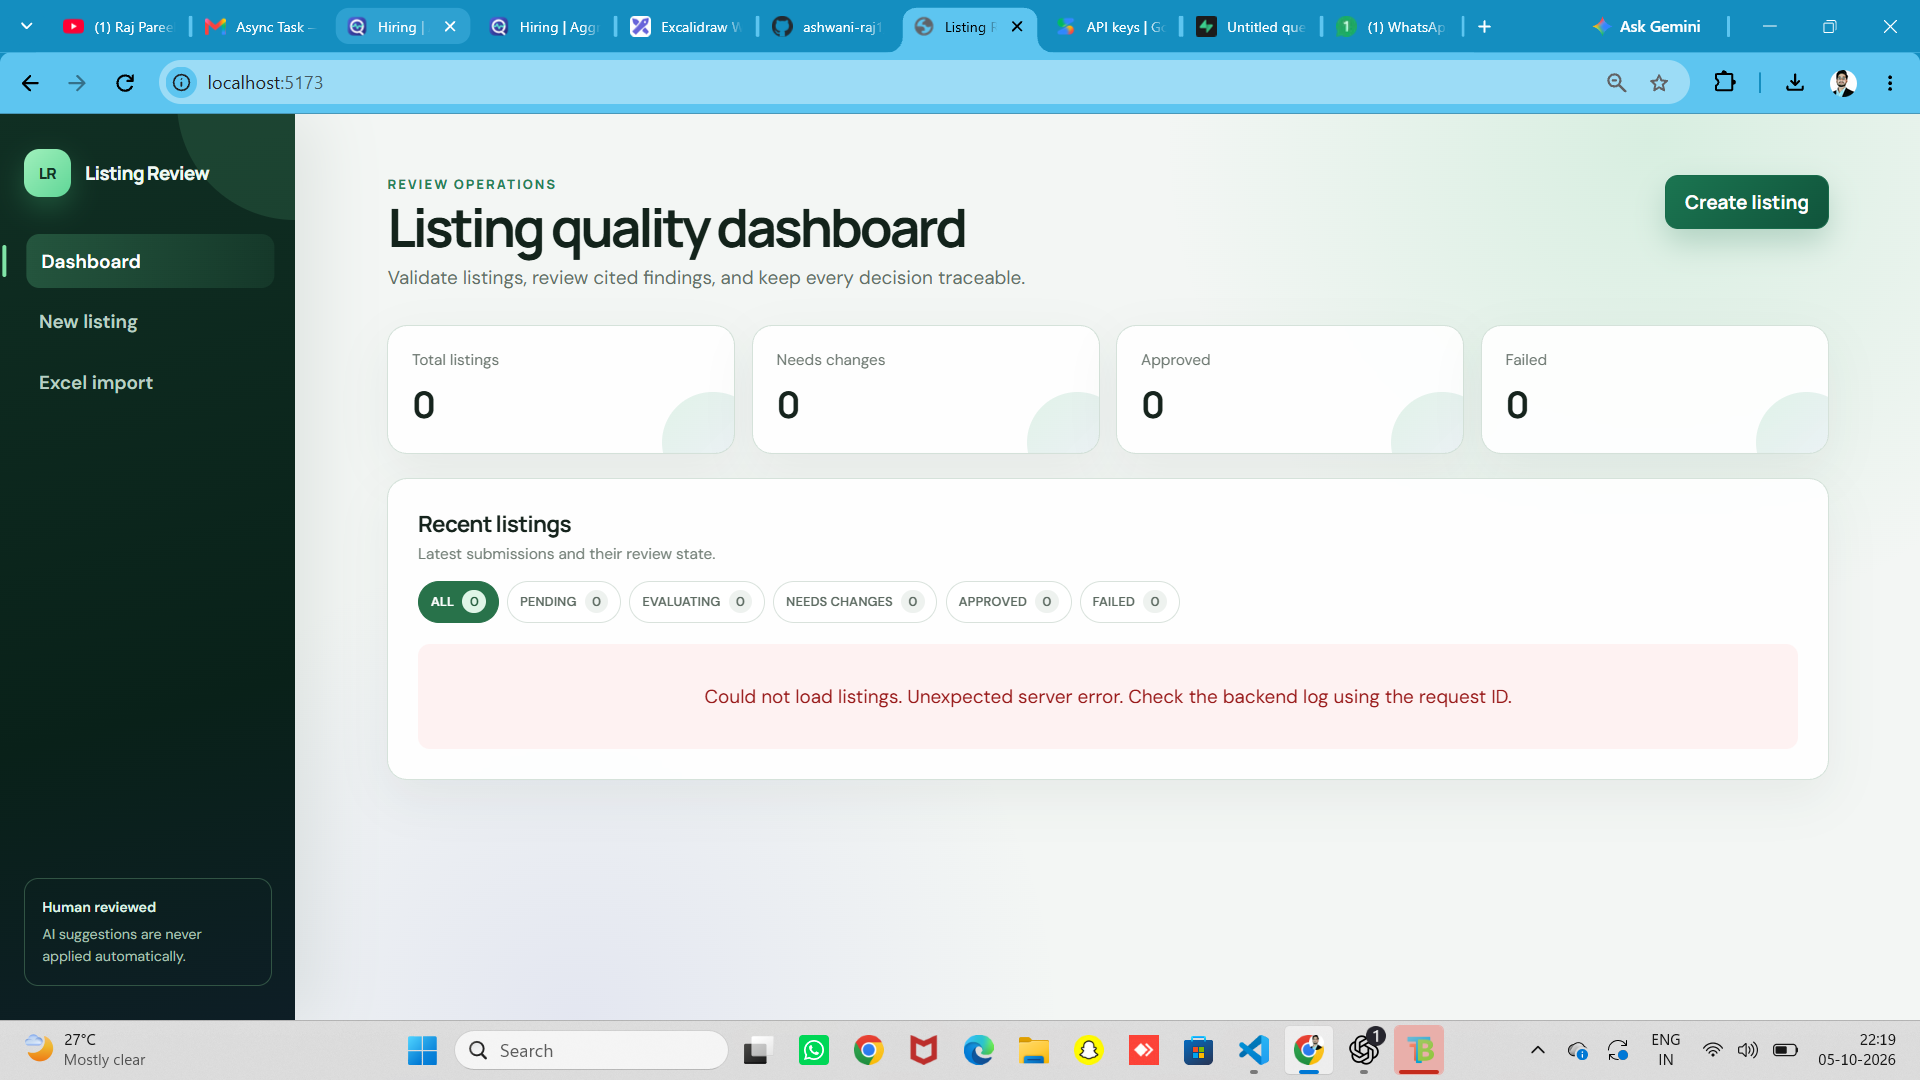
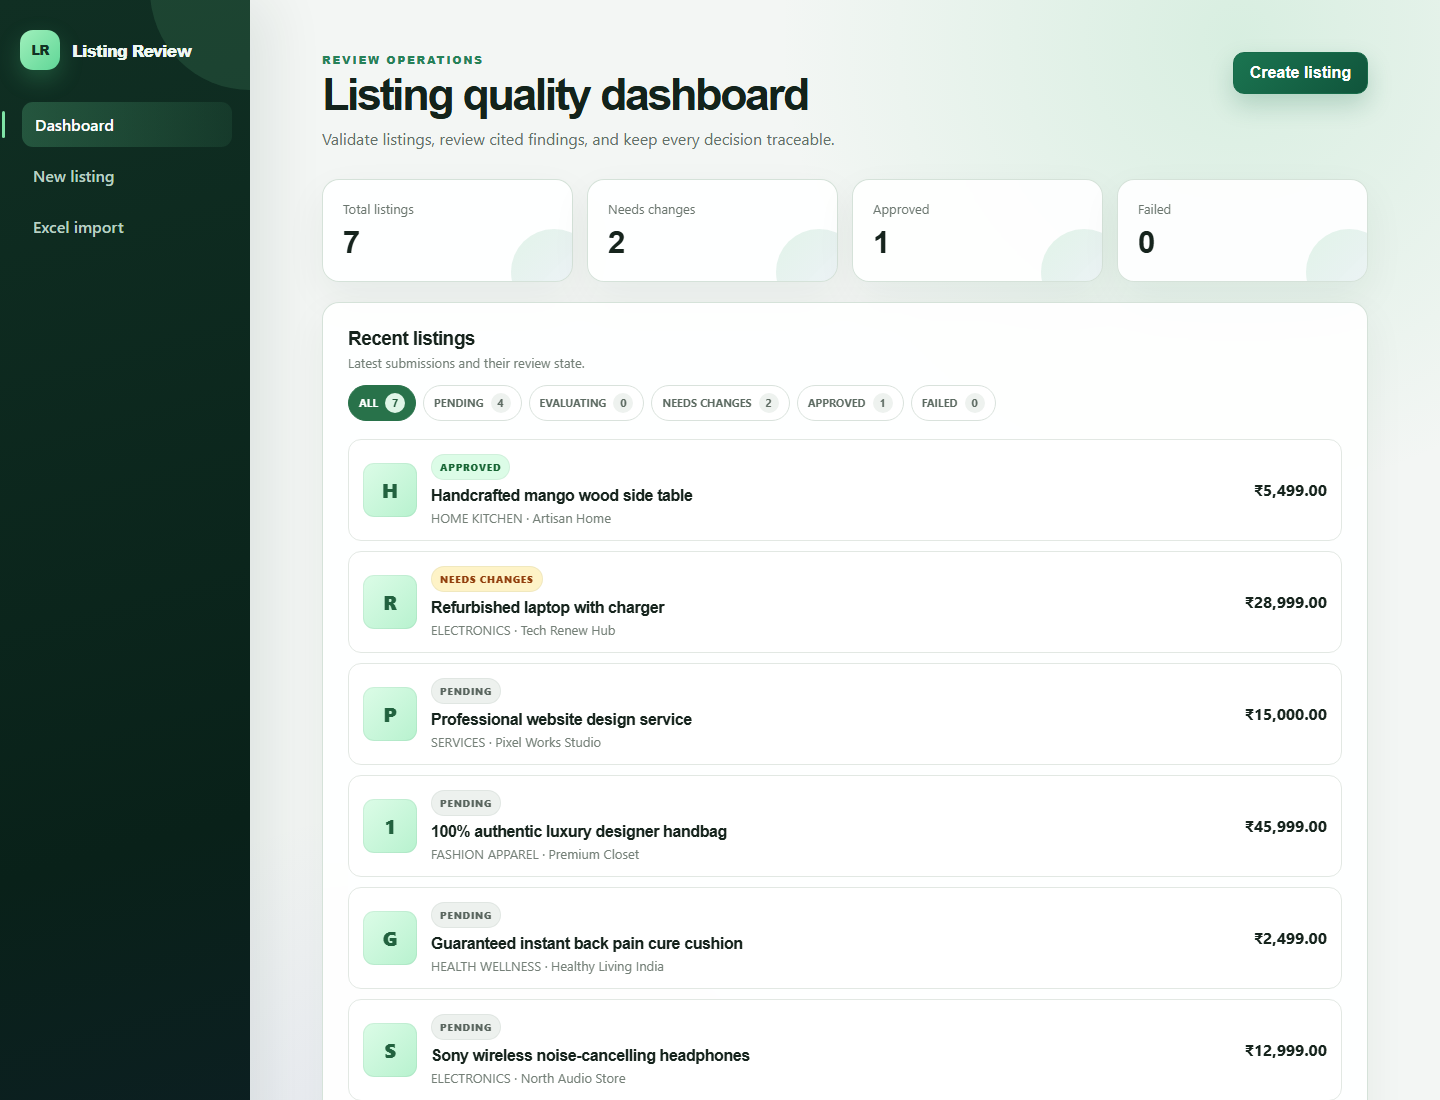
docs: refresh workflows ER model and screenshots

diff --git a/README.md b/README.md
@@ -19,7 +19,7 @@ A human-in-the-loop application that validates marketplace listings, retrieves r
 
 ## Documentation map
 
-- [Product snapshot](#product-snapshot)
+- [Product screenshots](#product-screenshots)
 - [Architecture](#architecture)
 - [End-to-end workflows](#end-to-end-workflows)
 - [Deterministic rules](#deterministic-rules)
@@ -38,11 +38,31 @@ A human-in-the-loop application that validates marketplace listings, retrieves r
 | --- | --- | --- | --- | --- |
 | Manual form or Excel | Required fields, price, category, lengths, duplicates | Cited, severity-ranked findings and proposed wording | Approve, edit, reject, finalize | Original, attempts, decisions, revisions, audit log |
 
-## Product snapshot
+## Product screenshots
 
-![Listing quality dashboard](docs/screenshots/dashboard.png)
+### 1. Operations dashboard
 
-The dashboard includes explicit loading, empty, filtered, and failure states. This development snapshot demonstrates the database failure state rather than silently presenting an unavailable database as an empty result.
+![Dashboard showing seeded listings and review statuses](docs/screenshots/dashboard.png)
+
+The dashboard summarizes the complete queue and provides filters for `PENDING`, `REVIEWING` (shown as **Evaluating**), `NEEDS_CHANGES`, `APPROVED`, and `FAILED`.
+
+### 2. Manual listing intake
+
+![Manual listing form with INR price and image upload](docs/screenshots/create-listing.png)
+
+Manual entry supports the required marketplace fields, INR pricing, tags, an image URL, or an image selected from the reviewer’s computer.
+
+### 3. Excel batch intake
+
+![Excel batch import workspace](docs/screenshots/excel-import.png)
+
+The batch workspace provides a downloadable template, validates the first worksheet, previews parsed rows, and limits each batch to 20 listings.
+
+### 4. Human review workbench
+
+![Review workbench showing a cited policy finding](docs/screenshots/review-workbench.png)
+
+The workbench shows the immutable source listing, review history, severity, evidence, exact policy code, suggested wording when available, and reviewer decision controls.
 
 ### Product journey
 
@@ -55,7 +75,7 @@ The dashboard includes explicit loading, empty, filtered, and failure states. Th
 - PostgreSQL and Prisma
 - Zod validation
 - Gemini 3.5 Flash Lite structured JSON output
-- Vitest, React Testing Library, and Supertest
+- Vitest and Supertest
 
 | Frontend | Backend | Data and AI | Quality |
 | --- | --- | --- | --- |
@@ -72,10 +92,10 @@ flowchart LR
     D --> P[Policy retrieval]
     P --> G[Gemini structured review]
     G --> C[Citation guardrails]
-    C --> DB[(Supabase PostgreSQL)]
+    C -->|Persist review + findings| DB[(Supabase PostgreSQL)]
     F -->|Approve / edit / reject| E
-    E --> R[Revision service]
-    R --> DB
+    E --> R[Decision + revision workflow]
+    R -->|Append decisions + snapshot| DB
 ```
 
 The backend follows a small layered design: routes coordinate the workflow, domain modules contain pure validation and policy logic, the Gemini service owns provider communication, Prisma persists workflow state, and middleware normalizes errors. Every request receives an `x-request-id` that also appears in structured Pino logs.
@@ -91,19 +111,25 @@ sequenceDiagram
     participant API as Express API
     participant DB as PostgreSQL
     participant AI as Gemini
-    Reviewer->>UI: Enter listing or import Excel row
-    UI->>API: Create listing
-    API->>API: Validate fields and duplicate key
-    API->>DB: Preserve original listing
-    API-->>UI: PENDING
-    UI->>API: Request review
-    API->>DB: Mark REVIEWING
+    Reviewer->>UI: Enter listing
+    UI->>API: POST /api/listings
+    API->>API: Zod validation + normalized duplicate key
+    API->>DB: Insert original + LISTING_CREATED audit event
+    API-->>UI: Listing status PENDING
+    UI->>API: POST /api/listings/:id/review
+    API->>DB: Listing=REVIEWING; Review=RUNNING
     API->>API: Retrieve relevant policies
     API->>AI: Listing + permitted policy sections
     AI-->>API: Structured findings
     API->>API: Validate JSON and citations
-    API->>DB: Save attempt and findings
-    API-->>UI: NEEDS_CHANGES or APPROVED
+    alt Findings returned
+        API->>DB: Review=COMPLETED; Listing=NEEDS_CHANGES
+    else No findings
+        API->>DB: Review=COMPLETED; Listing=APPROVED
+    else Provider or parsing failure
+        API->>DB: Review=FAILED; Listing=FAILED
+    end
+    API-->>UI: Persisted review result
 ```
 
 ### Human approval lifecycle
@@ -125,7 +151,48 @@ Finalization creates an immutable `RevisedListing`; it never overwrites the orig
 
 ### Batch processing
 
-The browser parses the first Excel worksheet, validates its shape, and submits at most 20 records. The API rejects duplicates within the batch and against persisted records, creates one `Batch`, and stores accepted listings. Reviews run sequentially so one failure does not hide other results and Gemini traffic stays bounded. Dashboard polling exposes each listing's live status.
+```mermaid
+sequenceDiagram
+    actor Reviewer
+    participant UI as Excel workspace
+    participant API as Express API
+    participant DB as PostgreSQL
+    participant AI as Gemini
+    Reviewer->>UI: Select XLSX / XLS file
+    UI->>UI: Parse first sheet and preview 1–20 rows
+    UI->>API: POST /api/batches
+    API->>API: Validate records + within-batch duplicates
+    API->>DB: Check persisted duplicate keys
+    API->>DB: Create Batch + Listings transaction
+    API-->>UI: Created batch and listings
+    UI->>UI: Return immediately to dashboard
+    loop Each listing, sequentially
+        UI->>API: POST /api/listings/:id/review
+        API->>AI: Grounded review
+        API->>DB: Persist independent result or failure
+        UI->>API: Refresh dashboard listings
+    end
+```
+
+One failed AI review does not stop subsequent batch listings. The dashboard polls only while at least one listing is actively `REVIEWING`; ordinary `PENDING` listings do not create continuous database traffic.
+
+### Finding decisions and finalization
+
+```mermaid
+flowchart LR
+    F[Finding] --> A[Approve suggestion]
+    F --> E[Edit then approve]
+    F --> R[Reject finding]
+    A --> D[(Decision history)]
+    E --> D
+    R --> D
+    D --> Q{Every finding has a decision?}
+    Q -->|No| W[Keep finalization disabled]
+    Q -->|Yes| S[Create RevisedListing snapshot]
+    S --> L[Set Review FINALIZED]
+    L --> P[Set Listing APPROVED]
+    P --> H[Append REVIEW_FINALIZED audit event]
+```
 
 ## Deterministic rules
 
@@ -159,10 +226,10 @@ The prompt explicitly prohibits invented specifications. Missing information may
 
 ```mermaid
 erDiagram
-    Batch ||--o{ Listing : contains
+    Batch o|--o{ Listing : groups
     Listing ||--o{ Review : has
     Listing ||--o{ RevisedListing : snapshots
-    Listing ||--o{ AuditLog : records
+    Listing o|--o{ AuditLog : records
     Review ||--o{ Finding : returns
     Review ||--o{ Decision : receives
     Finding ||--o{ Decision : resolved_by
@@ -183,7 +250,7 @@ erDiagram
     Review {
       string id PK
       ReviewStatus status
-      string[] retrievedPolicyCodes
+      string_array retrievedPolicyCodes
       json aiRawResponse
       int retryCount
     }
@@ -210,7 +277,18 @@ erDiagram
       json metadata
       datetime timestamp
     }
+    PolicySection {
+      string id PK
+      string code UK
+      string category
+      string title
+      string content
+      string_array keywords
+      boolean isActive
+    }
 ```
+
+`PolicySection` is intentionally not connected by a database foreign key: findings preserve the cited `policyCode`, while each review also stores the exact `retrievedPolicyCodes` supplied to Gemini. The backend verifies that every returned citation belongs to that retrieved set before saving it.
 
 Images are compressed in the browser and stored in `attributes.__imageUrl` for this bounded demonstration. Production should use object storage and retain only an asset URL in PostgreSQL.
 
@@ -242,7 +320,7 @@ The seed command is idempotent and also adds six reviewer-friendly sample listin
 
 ### Supabase note
 
-The transaction pooler uses port `6543`. The backend uses Prisma's PostgreSQL driver adapter with a one-connection `pg` pool to avoid prepared-statement collisions. Prisma schema-management commands can still fail through transaction pooling, so the initial schema is supplied as `backend/prisma/init.sql` for the Supabase SQL Editor.
+The transaction pooler uses port `6543`. The backend uses Prisma's PostgreSQL driver adapter with a bounded five-connection `pg` pool, verified TLS, connection keep-alive, and joined relation loading for detail pages. Prisma schema-management commands can still fail through transaction pooling, so the initial schema is supplied as `backend/prisma/init.sql` for the Supabase SQL Editor.
 
 For verified TLS, download the server root certificate from **Supabase → Project Settings → Database → SSL Configuration**, save it as `backend/certs/prod-supabase.crt`, and configure:
 
